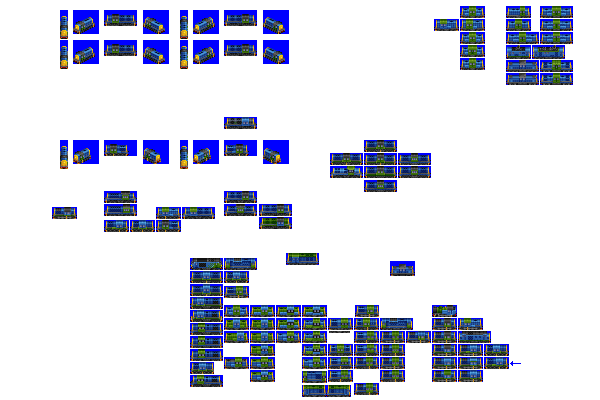
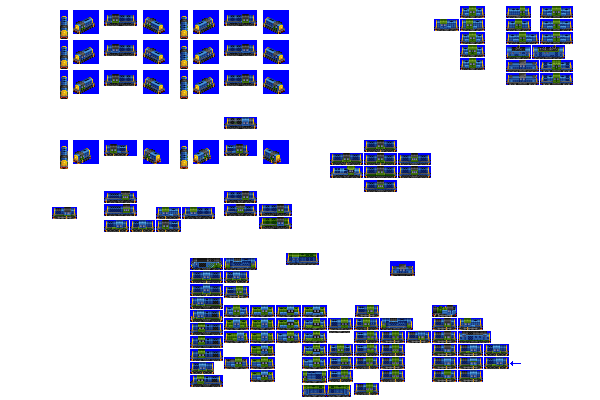
Change: additional liveries for Goliath, Trojan and Viking

Changed region(s): [[0.09, 0.12, 0.48, 0.27]]

diff --git a/src/vehicles/pony/goliath.py b/src/vehicles/pony/goliath.py
@@ -19,7 +19,7 @@ def main(roster_id, **kwargs):
         intro_year_offset=2,  # introduce later than gen epoch by design
         caboose_family="railfreight_2",
         # note that livery names are metadata only and can repeat for different spriterows
-        additional_liveries=["INDUSTRIAL_YELLOW"],
+        additional_liveries=["BANGER_BLUE" ,"INDUSTRIAL_YELLOW"],
         sprites_complete=True,
     )
 

diff --git a/src/vehicles/pony/trojan.py b/src/vehicles/pony/trojan.py
@@ -16,7 +16,7 @@ def main(roster_id, **kwargs):
         gen=4,
         intro_year_offset=6,  # introduce later than gen epoch by design
         # note that livery names are metadata only and can repeat for different spriterows
-        additional_liveries=["INDUSTRIAL_YELLOW"],
+        additional_liveries=["BANGER_BLUE", "INDUSTRIAL_YELLOW"],
         sprites_complete=True,
     )
 

diff --git a/src/vehicles/pony/viking.py b/src/vehicles/pony/viking.py
@@ -16,7 +16,7 @@ def main(roster_id, **kwargs):
         gen=5,
         intro_year_offset=6,  # introduce later than gen epoch by design
         # note that livery names are metadata only and can repeat for different spriterows
-        additional_liveries=["INDUSTRIAL_YELLOW"],
+        additional_liveries=["BANGER_BLUE", "INDUSTRIAL_YELLOW"],
         sprites_complete=True,
     )
 
